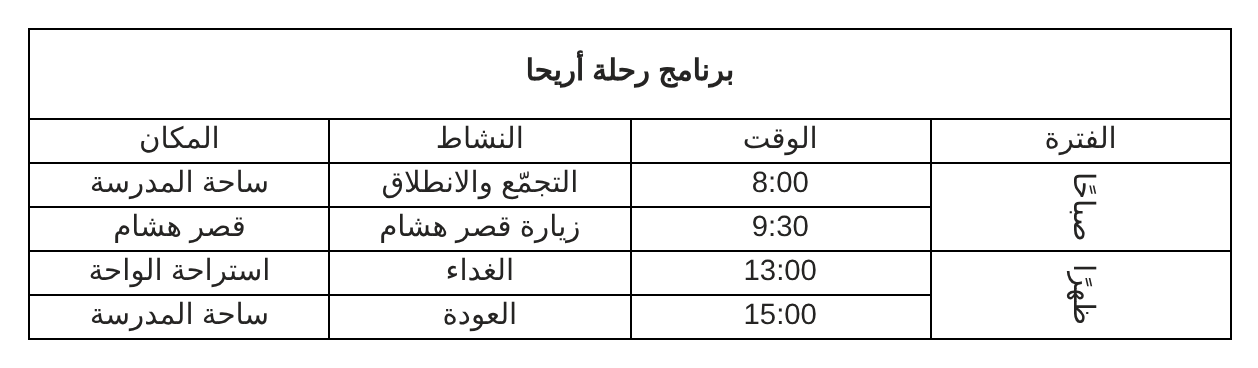
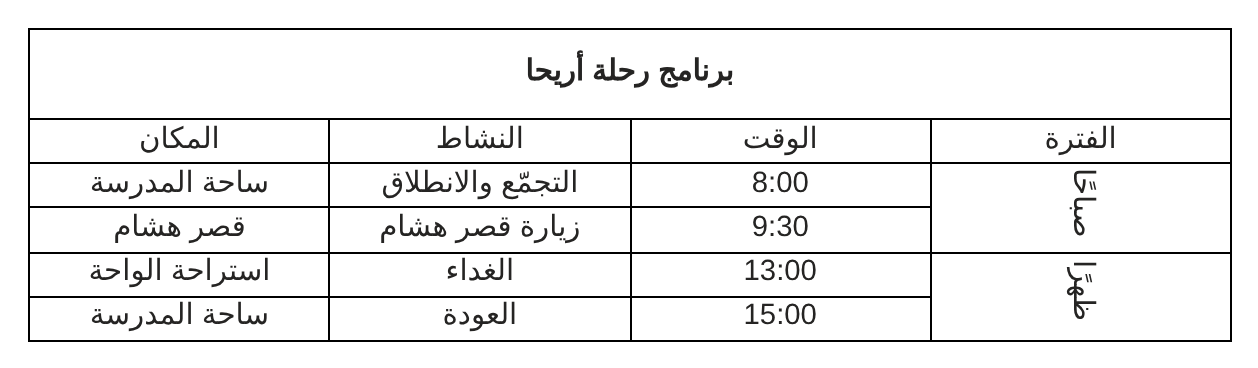
Building challenge: taller rows so bottom-center shows, Hebron bold/yellow via ribbon before text direction, vertical text in inner span (iPhone-safe), door top border no longer spreads to wider neighbor cell
Claude-Session: https://claude.ai/code/session_01SbWiHNL6HNT2SQV93v4NLa

Changed region(s): [[0.031, 0.4484, 0.9921, 0.8668], [0.031, 0.8967, 0.9921, 0.9266], [0.031, 0.7772, 0.744, 0.8071]]

diff --git a/index.html b/index.html
@@ -3,14 +3,14 @@
 <head>
 <meta http-equiv="Cache-Control" content="no-cache, no-store, must-revalidate"><meta http-equiv="Pragma" content="no-cache"><meta http-equiv="Expires" content="0">
 <script>window.LW=()=>document.documentElement.clientWidth||innerWidth;window.LH=()=>document.documentElement.clientHeight||innerHeight;</script>
-<script>window.APPV="11261442";fetch("version.json?"+Date.now(),{cache:"no-store"}).then(r=>r.json()).then(j=>{if(j.v&&j.v!==window.APPV){const k="wl-reload-"+j.v;if(!sessionStorage.getItem(k)){sessionStorage.setItem(k,1);location.replace(location.pathname+"?v="+j.v+location.hash)}}}).catch(()=>{});</script>
+<script>window.APPV="11261544";fetch("version.json?"+Date.now(),{cache:"no-store"}).then(r=>r.json()).then(j=>{if(j.v&&j.v!==window.APPV){const k="wl-reload-"+j.v;if(!sessionStorage.getItem(k)){sessionStorage.setItem(k,1);location.replace(location.pathname+"?v="+j.v+location.hash)}}}).catch(()=>{});</script>
 <meta charset="utf-8">
 <meta name="viewport" content="width=device-width,initial-scale=1">
 <title>برنامج وورد — دليل التطبيق العملي</title>
 <link rel="preconnect" href="https://fonts.googleapis.com">
 <link href="https://fonts.googleapis.com/css2?family=Tajawal:wght@400;500;700;800&display=swap" rel="stylesheet">
-<link rel="stylesheet" href="css/word.css?v=11261442">
-<link rel="stylesheet" href="css/app.css?v=11261442">
+<link rel="stylesheet" href="css/word.css?v=11261544">
+<link rel="stylesheet" href="css/app.css?v=11261544">
 <style>html{overflow:hidden}</style>
 </head>
 <body>
@@ -30,35 +30,35 @@
 </div>
 <div id="ovl" style="position:absolute;left:0;top:0;width:0;height:0;z-index:1200"><div id="ring"></div><div id="bubble"></div><div id="rtip"></div></div><div id="blocker"></div><button id="stopDemo">⏹ إيقاف المشاهدة</button>
 <div id="cursor"><svg viewBox="0 0 24 24" width="30" height="30"><path d="M4 2l15 11-7 1 4 8-3 1.5-4-8-5 5z" fill="#fff" stroke="#111" stroke-width="1.4" stroke-linejoin="round"/></svg></div>
-<script src="js/zoomfix.js?v=11261442"></script>
-<script src="js/icons.js?v=11261442"></script>
-<script src="js/data.js?v=11261442"></script>
-<script src="js/ribbon.js?v=11261442"></script>
-<script src="js/doc.js?v=11261442"></script>
-<script src="js/features.js?v=11261442"></script>
-<script src="js/tables.js?v=11261442"></script>
-<script src="js/objects.js?v=11261442"></script>
-<script src="js/learn.js?v=11261442"></script>
-<script src="js/content.js?v=11261442"></script>
-<script src="js/lessons.js?v=11261442"></script>
-<script src="js/tproject-snaps.js?v=11261442"></script>
-<script src="js/tproject.js?v=11261442"></script>
-<script src="js/tablepics.js?v=11261442"></script>
-<script src="js/tabletools.js?v=11261442"></script>
-<script src="js/tablemouse.js?v=11261442"></script>
-<script src="js/parapro.js?v=11261442"></script>
-<script src="js/selbar.js?v=11261442"></script>
-<script src="js/autoplay.js?v=11261442"></script>
-<script src="js/guide.js?v=11261442"></script>
-<script src="js/curriculum.js?v=11261442"></script>
-<script src="js/morepics.js?v=11261442"></script>
-<script src="js/demos.js?v=11261442"></script>
-<script src="js/tdemos.js?v=11261442"></script>
-<script src="js/topics-meta.js?v=11261442"></script>
-<script src="js/config.js?v=11261442"></script>
-<script src="js/cloud.js?v=11261442"></script>
-<script src="js/stats.js?v=11261442"></script>
-<script src="js/exportdocx.js?v=11261442"></script>
+<script src="js/zoomfix.js?v=11261544"></script>
+<script src="js/icons.js?v=11261544"></script>
+<script src="js/data.js?v=11261544"></script>
+<script src="js/ribbon.js?v=11261544"></script>
+<script src="js/doc.js?v=11261544"></script>
+<script src="js/features.js?v=11261544"></script>
+<script src="js/tables.js?v=11261544"></script>
+<script src="js/objects.js?v=11261544"></script>
+<script src="js/learn.js?v=11261544"></script>
+<script src="js/content.js?v=11261544"></script>
+<script src="js/lessons.js?v=11261544"></script>
+<script src="js/tproject-snaps.js?v=11261544"></script>
+<script src="js/tproject.js?v=11261544"></script>
+<script src="js/tablepics.js?v=11261544"></script>
+<script src="js/tabletools.js?v=11261544"></script>
+<script src="js/tablemouse.js?v=11261544"></script>
+<script src="js/parapro.js?v=11261544"></script>
+<script src="js/selbar.js?v=11261544"></script>
+<script src="js/autoplay.js?v=11261544"></script>
+<script src="js/guide.js?v=11261544"></script>
+<script src="js/curriculum.js?v=11261544"></script>
+<script src="js/morepics.js?v=11261544"></script>
+<script src="js/demos.js?v=11261544"></script>
+<script src="js/tdemos.js?v=11261544"></script>
+<script src="js/topics-meta.js?v=11261544"></script>
+<script src="js/config.js?v=11261544"></script>
+<script src="js/cloud.js?v=11261544"></script>
+<script src="js/stats.js?v=11261544"></script>
+<script src="js/exportdocx.js?v=11261544"></script>
 <script>cloudInit();</script>
 </body>
 </html>

diff --git a/js/tproject.js b/js/tproject.js
@@ -134,8 +134,8 @@ const PROJ=[
   check:()=>[...TT().querySelectorAll('td')].every(td=>td.style.textAlign==='center')},
  {t:'جعل كتابة الفترة عمودية',adds:'كتابة عمودية',last:1,
   hint:'«اتجاه النص» يدير الكتابة داخل الخلية — مناسب للخلايا الطويلة الضيقة.',after:'🎉 اكتمل مشروع الجدول! الأوامر التالية إضافية.',
-  steps:[PC(2,0,'النقر في خلية «صباحًا»'),TAB('tlayout'),{...B('tlayout','textDir','النقر على «اتجاه النص»'),strong:1,done:()=>!!TC(2,0).style.writingMode},PC(5,0,'النقر في خلية «ظهرًا»'),{...B('tlayout','textDir','النقر على «اتجاه النص» مرة أخرى'),strong:1,done:()=>!!TC(5,0).style.writingMode}],
-  check:()=>!!TC(2,0).style.writingMode&&!!TC(5,0).style.writingMode},
+  steps:[PC(2,0,'النقر في خلية «صباحًا»'),TAB('tlayout'),{...B('tlayout','textDir','النقر على «اتجاه النص»'),strong:1,done:()=>tdirOf(TC(2,0))>0},PC(5,0,'النقر في خلية «ظهرًا»'),{...B('tlayout','textDir','النقر على «اتجاه النص» مرة أخرى'),strong:1,done:()=>tdirOf(TC(5,0))>0}],
+  check:()=>tdirOf(TC(2,0))>0&&tdirOf(TC(5,0))>0},
  /* ---------- 7. أوامر إضافية ---------- */
  {g:'٧ · أوامر إضافية',t:'إدراج جدول من نافذة «إدراج جدول»',adds:'جدول «ما نحمله»',fill:'itemsHead',
   hint:'النافذة مفيدة للجداول الكبيرة: نكتب عدد الأعمدة والصفوف بأنفسنا.',
@@ -215,7 +215,7 @@ const HOUSE_TASK={t:'تطبيق: إعادة رسم جدول المبنى',kind:'
   R('إطار الباب مزدوج',()=>{const p=purpleRow(),l=lastRow();return !!p&&!!l&&[...p.cells].some(dbl)&&[...l.cells].some(dbl)},()=>HT()?.rows[2],'«نمط الخط» ← مزدوج، ثم تحديد خلايا الباب بالسحب ← حدود ← حدود خارجية، وفي الصف الأخير حدّان أيمن وأيسر للباب','tborders'),
   R('خط مزدوج بالأسفل',()=>{const r=lastRow();return !!r&&[...r.cells].every(td=>td.style.borderBottomStyle==='double')},()=>lastRow(),'«نمط الخط» ← مزدوج، تحديد الصف الأخير ← حدود ← حد سفلي','tborders'),
   R('Bottom center alignment',()=>{const b=bigBlock();return !!b&&fuzzyHas(b.textContent,'Bottom center alignment')&&b.style.verticalAlign==='bottom'&&b.style.textAlign==='center'},()=>hcells().find(td=>td.colSpan>=2&&td.rowSpan>=2)||HT(),'كتابة العبارة في المربع الكبير ← تخطيط ← «محاذاة لأسفل الوسط»','calign'),
-  R('Hebron عمودية من الأسفل للأعلى',()=>!!hebron()&&!!hebron().style.writingMode&&/rotate/.test(hebron().style.transform||''),()=>greenRow2()?.cells[0]||HT(),'كتابة Hebron في الصف الأخضر ← تخطيط ← اتجاه النص (النقر مرتين: المرة الأولى من الأعلى للأسفل، والثانية من الأسفل للأعلى)','textDir'),
+  R('Hebron عمودية من الأسفل للأعلى',()=>!!hebron()&&tdirOf(hebron())===2,()=>greenRow2()?.cells[0]||HT(),'كتابة Hebron في الصف الأخضر ← تخطيط ← اتجاه النص (النقر مرتين: المرة الأولى من الأعلى للأسفل، والثانية من الأسفل للأعلى)','textDir'),
   R('Hebron أصفر وعريض',()=>{const td=hebron();if(!td)return false;const w=document.createTreeWalker(td,NodeFilter.SHOW_TEXT);let n;while(n=w.nextNode()){if(fuzzyHas(n.nodeValue,'Hebron')){const cs=getComputedStyle(n.parentElement);return C_YEL(cs.color)&&(+cs.fontWeight>=600||cs.fontWeight==='bold')}}return false},()=>hebron()||greenRow2()?.cells[0]||HT(),'تحديد الكلمة ← الصفحة الرئيسية ← لون الخط أصفر + غامق','fontcolor'),
   R('الصف الأخضر أعلى (1.5 سم+)',()=>{const r=greenRow2();return !!r&&parseFloat(r.cells[0].style.height)>=1.5*CM-2},()=>greenRow2()||HT(),'النقر في الصف الأخضر ← تخطيط ← الارتفاع: 1.8','rowH'),
  ]};

diff --git a/js/tables.js b/js/tables.js
@@ -106,12 +106,20 @@ Object.assign(OPS,{
   distCols(){if(!needCell())return;const t=S.curCell.closest('table');t.style.tableLayout='fixed';t.querySelectorAll('td').forEach(c=>c.style.width='')},
   calign(a){const cs=targetCells();if(!cs.length){simToast('النقر داخل خلية أولًا');return}snap();const [v,h]=a.split('-');cs.forEach(c=>{c.style.verticalAlign=v;c.style.textAlign=h})},
   textDir(){if(S.obj&&S.obj.classList.contains('shp')){const t=S.obj.querySelector('.stxt');t.style.writingMode=t.style.writingMode?'':'vertical-rl';return}const cs=targetCells();if(!cs.length)return;snap();
-    /* مثل Word: كل نقرة تنقل للاتجاه التالي — أفقي ← من الأعلى للأسفل ← من الأسفل للأعلى ← أفقي */
-    const st=c=>!c.style.writingMode?0:(c.style.transform&&c.style.transform!=='none'?2:1);const nx=(st(cs[0])+1)%3;
-    cs.forEach(c=>{c.style.writingMode=nx?'vertical-rl':'';c.style.transform=nx===2?'rotate(180deg)':''});
+    /* مثل Word: كل نقرة تنقل للاتجاه التالي — أفقي ← من الأعلى للأسفل ← من الأسفل للأعلى ← أفقي.
+       الكتابة العمودية داخل span (وليس على الخلية نفسها) لتعمل على iPhone وكل المتصفحات */
+    const nx=(tdirOf(cs[0])+1)%3;cs.forEach(c=>setTdir(c,nx));
     try{simToast(['اتجاه النص: أفقي','اتجاه النص: من الأعلى إلى الأسفل','اتجاه النص: من الأسفل إلى الأعلى'][nx])}catch(e){}logAct('textDir:'+nx)},
   cellMargins(){simToast('هوامش الخلايا: للعرض فقط')},
   tsort(){if(!needCell())return;snap();const t=S.curCell.closest('table');const rows=[...t.rows].slice(t.classList.contains('nohdr')?0:1);const ci=S.curCell.cellIndex;rows.sort((a,b)=>(a.cells[ci]?.textContent||'').localeCompare(b.cells[ci]?.textContent||'','ar',{numeric:true}));rows.forEach(r=>t.tBodies[0].appendChild(r));simToast('تم فرز الجدول')},
   repeatHeader(){simToast('تكرار صفوف الرأس: مفعّل')},formula(){simToast('صيغة: للعرض فقط')},
 });
 function addCol(right){if(!needCell())return;snap();const i=S.curCell.cellIndex;[...S.curCell.closest('table').rows].forEach(r=>{const ref=r.cells[Math.min(i,r.cells.length-1)];const td=newCell();right?ref.before(td):ref.after(td)});logAct(right?'insRight':'insLeft')}
+
+/* اتجاه النص في الخلية: 0 أفقي، 1 من الأعلى للأسفل، 2 من الأسفل للأعلى */
+function tdirOf(td){if(!td)return 0;const d=td.dataset.tdir;if(d==='btt')return 2;if(d==='ttb')return 1;if(td.style.writingMode)return td.style.transform&&td.style.transform!=='none'?2:1;return 0}
+function setTdir(td,n){td.style.writingMode='';td.style.transform='';td.querySelectorAll(':scope > span.tdir').forEach(sp=>{while(sp.firstChild)sp.parentNode.insertBefore(sp.firstChild,sp);sp.remove()});
+  if(!n){delete td.dataset.tdir;return}td.dataset.tdir=n===2?'btt':'ttb';const sp=document.createElement('span');sp.className='tdir';
+  sp.setAttribute('style','display:inline-block;writing-mode:vertical-rl;-webkit-writing-mode:vertical-rl;white-space:nowrap;text-align:start;'+(n===2?'transform:rotate(180deg);-webkit-transform:rotate(180deg);':''));
+  while(td.firstChild)sp.appendChild(td.firstChild);if(!sp.childNodes.length)sp.appendChild(document.createElement('br'));td.appendChild(sp)}
+window.tdirOf=tdirOf;window.setTdir=setTdir;

diff --git a/js/tdemos.js b/js/tdemos.js
@@ -88,9 +88,11 @@ DA('PIC_SPLITT',()=>[cell(()=>findCell('13:00'),'النقر في صف «13:00»'
   {cmd:'penStyle',arg:'double',say:'نمط الخط ← مزدوج'},{cmd:'penColor',arg:'#000000',say:'لون القلم ← أسود'},
   ...DOOR(()=>D(1,2),'الباب: الخلية الأولى',true),...DOOR(()=>D(2,2),'الباب: الخلية الثانية'),...DOOR(()=>D(3,2),'الباب: الخلية الطويلة'),...DOOR(()=>D(6,2),'الباب في الصف الأخير'),
   ROW(6,'أسفل الجدول'),{cmd:'tborders',arg:'bottom',say:'حدود ← حد سفلي'},{cmd:'penStyle',arg:'solid',say:'نمط الخط ← مفرد'},
-  typeIn(()=>D(3,0),'Bottom center alignment'),cell(()=>D(3,0),'المربع الكبير'),{cmd:'calign',arg:'bottom-center',say:'تخطيط ← محاذاة لأسفل الوسط'},
-  typeIn(()=>D(5,0),'Hebron'),cell(()=>D(5,0),'الصف الأخضر'),{cmd:'rowH',arg:'1.8',say:'تخطيط ← الارتفاع 1.8 سم'},{cmd:'textDir',say:'اتجاه النص (1): من الأعلى للأسفل'},{cmd:'textDir',say:'اتجاه النص (2): من الأسفل للأعلى — مثل الصورة'},{cmd:'calign',arg:'middle-center',say:'تخطيط ← محاذاة للوسط'},
-  js('تحديد «Hebron» ← غامق ← لون الخط أصفر',async()=>{const c=D(5,0);selectWord(c,'Hebron');OPS.bold();selectWord(c,'Hebron');OPS.fontcolor('#ffff00');clearCells()})];
+  cells(()=>D(3,0),()=>LD(4),'صفّا المربع الكبير'),{cmd:'rowH',arg:'1.3',say:'تخطيط ← الارتفاع 1.3 سم (ليظهر مكان الكتابة)'},
+  typeIn(()=>D(3,0),'Bottom center alignment'),cell(()=>D(3,0),'النقر في المربع الكبير'),{cmd:'calign',arg:'bottom-center',say:'تخطيط ← محاذاة لأسفل الوسط'},
+  typeIn(()=>D(5,0),'Hebron'),cell(()=>D(5,0),'الصف الأخضر'),{cmd:'rowH',arg:'1.8',say:'تخطيط ← الارتفاع 1.8 سم'},
+  {sel:'Hebron',say:'تحديد كلمة Hebron'},{cmd:'bold',say:'الصفحة الرئيسية ← غامق'},{sel:'Hebron'},{cmd:'fontcolor',arg:'#ffff00',say:'لون الخط ← أصفر'},
+  cell(()=>D(5,0),'النقر في خلية Hebron'),{cmd:'textDir',say:'اتجاه النص (1): من الأعلى للأسفل'},{cmd:'textDir',say:'اتجاه النص (2): من الأسفل للأعلى — مثل الصورة'},{cmd:'calign',arg:'middle-center',say:'تخطيط ← محاذاة للوسط'}];
  /* 7 أعمدة × 7 صفوف: الدمج */
  const MERGES=()=>[...M([0,0],[0,1],'الصف الأول: دمج كل جزء'),...M([0,2],[0,4]),...M([0,5],[0,6]),...[1,2].flatMap(r=>[...M([r,0],[r,1]),...M([r,5],[r,6])]),
    ...M([3,2],[4,2],'الأعمدة الطويلة: دمج عموديًّا'),...M([3,3],[4,3]),...M([3,4],[4,4]),...M([3,5],[4,6],'المربع الكبير: 2×2'),...M([5,0],[5,6],'الصف الأخضر كله خلية واحدة'),...M([6,0],[6,1],'الصف الأخير'),...M([6,4],[6,5])];

diff --git a/js/exportdocx.js b/js/exportdocx.js
@@ -111,7 +111,7 @@ async function table(t){const g=typeof gridMap==='function'?gridMap(t):null;cons
       const bd=['top','left','bottom','right'].map(k=>{const K=k[0].toUpperCase()+k.slice(1);const st=s['border'+K+'Style'],bw=parseFloat(s['border'+K+'Width']),c=hex(s['border'+K+'Color']);
         if(st==='none'||st==='hidden'||!bw||!c)return `<w:${k} w:val="nil"/>`;return `<w:${k} w:val="${st==='double'?'double':st==='dashed'?'dashed':st==='dotted'?'dotted':'single'}" w:sz="${Math.max(2,Math.round(bw*6))}" w:space="0" w:color="${c}"/>`}).join('');
       const dg=td.dataset.dg||'';const dgc=(td.dataset.dgc||'#000000').replace('#','');const diag=(dg.includes('d')?`<w:tl2br w:val="single" w:sz="6" w:color="${dgc}"/>`:'')+(dg.includes('u')?`<w:tr2bl w:val="single" w:sz="6" w:color="${dgc}"/>`:'');
-      const bg=hex(s.backgroundColor);const va=s.verticalAlign==='middle'?'center':s.verticalAlign==='bottom'?'bottom':'top';const wm=s.writingMode;const tdir=/vertical/.test(wm)?(s.transform&&s.transform!=='none'?'btLr':'tbRl'):'';
+      const bg=hex(s.backgroundColor);const va=s.verticalAlign==='middle'?'center':s.verticalAlign==='bottom'?'bottom':'top';const tdn=window.tdirOf?tdirOf(td):0;const tdir=tdn===2?'btLr':tdn===1?'tbRl':'';
       x+=`<w:tc><w:tcPr><w:tcW w:w="${TW(w)}" w:type="dxa"/>${span>1?`<w:gridSpan w:val="${span}"/>`:''}${it.v.r2>it.v.r1?`<w:vMerge${it.cont?'':' w:val="restart"'}/>`:''}<w:tcBorders>${bd}${diag}</w:tcBorders>${bg?`<w:shd w:val="clear" w:color="auto" w:fill="${bg}"/>`:''}${tdir?`<w:textDirection w:val="${tdir}"/>`:''}<w:vAlign w:val="${va}"/></w:tcPr>`;
       if(it.cont){x+='<w:p/></w:tc>';continue}
       const inner=[],fl=[];const hasBlock=[...td.children].some(c=>/^(P|DIV|UL|OL|TABLE|H\d)$/.test(c.tagName));

diff --git a/admin.html b/admin.html
@@ -5,7 +5,7 @@
 <meta name="viewport" content="width=device-width,initial-scale=1">
 <title>لوحة المتابعة — برنامج وورد</title>
 <link href="https://fonts.googleapis.com/css2?family=Tajawal:wght@400;500;700;800&display=swap" rel="stylesheet">
-<link rel="stylesheet" href="css/app.css?v=11261442">
+<link rel="stylesheet" href="css/app.css?v=11261544">
 <style>
 body{overflow:auto;height:auto;min-height:100vh}
 .atop{display:flex;align-items:center;gap:12px;padding:12px 20px;background:var(--side);color:#fff;position:sticky;top:0;z-index:5}
@@ -54,8 +54,8 @@ table.mini{font-size:13px}table.mini th{position:static}table.mini tr.r2 td:nth-
 <div class="atop"><span class="logo">W</span><b>لوحة المتابعة</b><span class="sp"></span><span id="who" class="muted" style="color:#93a2ba"></span><a href="index.html">فتح الموقع</a><button id="out">خروج</button></div>
 <div class="atabs" id="atabs"><button data-v="track" class="on">📊 المتابعة</button><button data-v="unlock">🔓 فتح الدروس</button><button data-v="students">👩🎓 الطلاب</button><button data-v="sections">🏫 الشعب</button></div>
 <div class="wrap" id="view"></div>
-<script src="js/config.js?v=11261442"></script>
-<script src="js/topics-meta.js?v=11261442"></script>
+<script src="js/config.js?v=11261544"></script>
+<script src="js/topics-meta.js?v=11261544"></script>
 <script>
 const inSec=(st,id)=>st.section_id===id||(st.extra||[]).includes(id);
 const $=s=>document.querySelector(s),$$=s=>[...document.querySelectorAll(s)];const T=(window.ONLY_TOPICS?window.TOPICS_META.filter(t=>ONLY_TOPICS.includes(t.id)):window.TOPICS_META);

diff --git a/js/tabletools.js b/js/tabletools.js
@@ -80,7 +80,9 @@ function applyBorderSet(cs,spec,bd,thick){const t=cs[0].closest('table'),g=gridM
   const lowSide=rtl?'right':'left',highSide=rtl?'left':'right';
   cs.forEach(c=>{const v=g.get(c);const outer={top:v.r1===R1,bottom:v.r2===R2,[lowSide]:v.c1===C1,[highSide]:v.c2===C2};
     ['top','bottom','left','right'].forEach(s=>{const want=outer[s]?spec[s]:((s==='top'||s==='bottom')?spec.ih:spec.iv);if(want===undefined)return;
-      const val=want?(outer[s]&&thick?thick:bd):'none';c.style['border'+SIDE_CAP[s]]=val;const n=neighbour(c,s);if(n&&(!cs.includes(n)||true))n.style['border'+SIDE_CAP[OPP[s]]]=val})})}
+      const val=want?(outer[s]&&thick?thick:bd):'none';c.style['border'+SIDE_CAP[s]]=val;const n=neighbour(c,s);if(n){const a=g.get(c),b=g.get(n);
+        /* الجار يأخذ الحد فقط إذا كان الخط المشترك بطوله كاملًا؛ وإلا يبقى حدّه كما هو (مثل Word: يتغيّر جزء الخط الخاص بالخلية فقط) */
+        const sameSpan=b&&((s==='top'||s==='bottom')?(a.c1===b.c1&&a.c2===b.c2):(a.r1===b.r1&&a.r2===b.r2));if(sameSpan||cs.includes(n))n.style['border'+SIDE_CAP[OPP[s]]]=val}})})}
 const _tb=OPS.tborders;
 OPS.tborders=function(a){if(a==='more')return bordersDlg();if(!needCell())return;const t=S.curCell.closest('table');const cs=S.selCells.length?[...S.selCells]:[...t.querySelectorAll('td')];snap();
   const SP={none:{top:false,bottom:false,left:false,right:false,ih:false,iv:false},all:{top:true,bottom:true,left:true,right:true,ih:true,iv:true},outside:{top:true,bottom:true,left:true,right:true},inside:{ih:true,iv:true},

diff --git a/js/tablepics.js b/js/tablepics.js
@@ -153,8 +153,8 @@ const PIC_ALIGN=PIC({t:'المحاذاة واتجاه النص',goalImg:'img/p9-
  intro:'وسّط الكتابة في كل الخلايا، وجعل «صباحًا» و«ظهرًا» عموديتين.',
  setup:DOCT('رحلتنا المدرسية',mkT(TRIPROWS(SIZED),'ts0')),
  reqs:[R('الكتابة في الوسط',()=>pcells().length>0&&pcells().every(td=>td.style.textAlign==='center'),()=>PT_(),'تخطيط ← تحديد ← تحديد الجدول ← «توسيط»','calign-middle-center'),
-  R('«صباحًا» عمودية',()=>!!findCell('صباحًا')?.style.writingMode,()=>findCell('صباحًا')||PT_(),'النقر في «صباحًا» ← تخطيط ← اتجاه النص','textDir'),
-  R('«ظهرًا» عمودية',()=>!!findCell('ظهرًا')?.style.writingMode,()=>findCell('ظهرًا')||PT_(),'النقر في «ظهرًا» ← تخطيط ← اتجاه النص','textDir')]});
+  R('«صباحًا» عمودية',()=>tdirOf(findCell('صباحًا'))>0,()=>findCell('صباحًا')||PT_(),'النقر في «صباحًا» ← تخطيط ← اتجاه النص','textDir'),
+  R('«ظهرًا» عمودية',()=>tdirOf(findCell('ظهرًا'))>0,()=>findCell('ظهرًا')||PT_(),'النقر في «ظهرًا» ← تخطيط ← اتجاه النص','textDir')]});
 
 /* ===== 10. أنماط الجداول ===== */
 const CANT=[['الصنف','السعر (شيكل)'],['سندويش','5'],['عصير','3'],['كعك','2'],['المجموع','10']];
